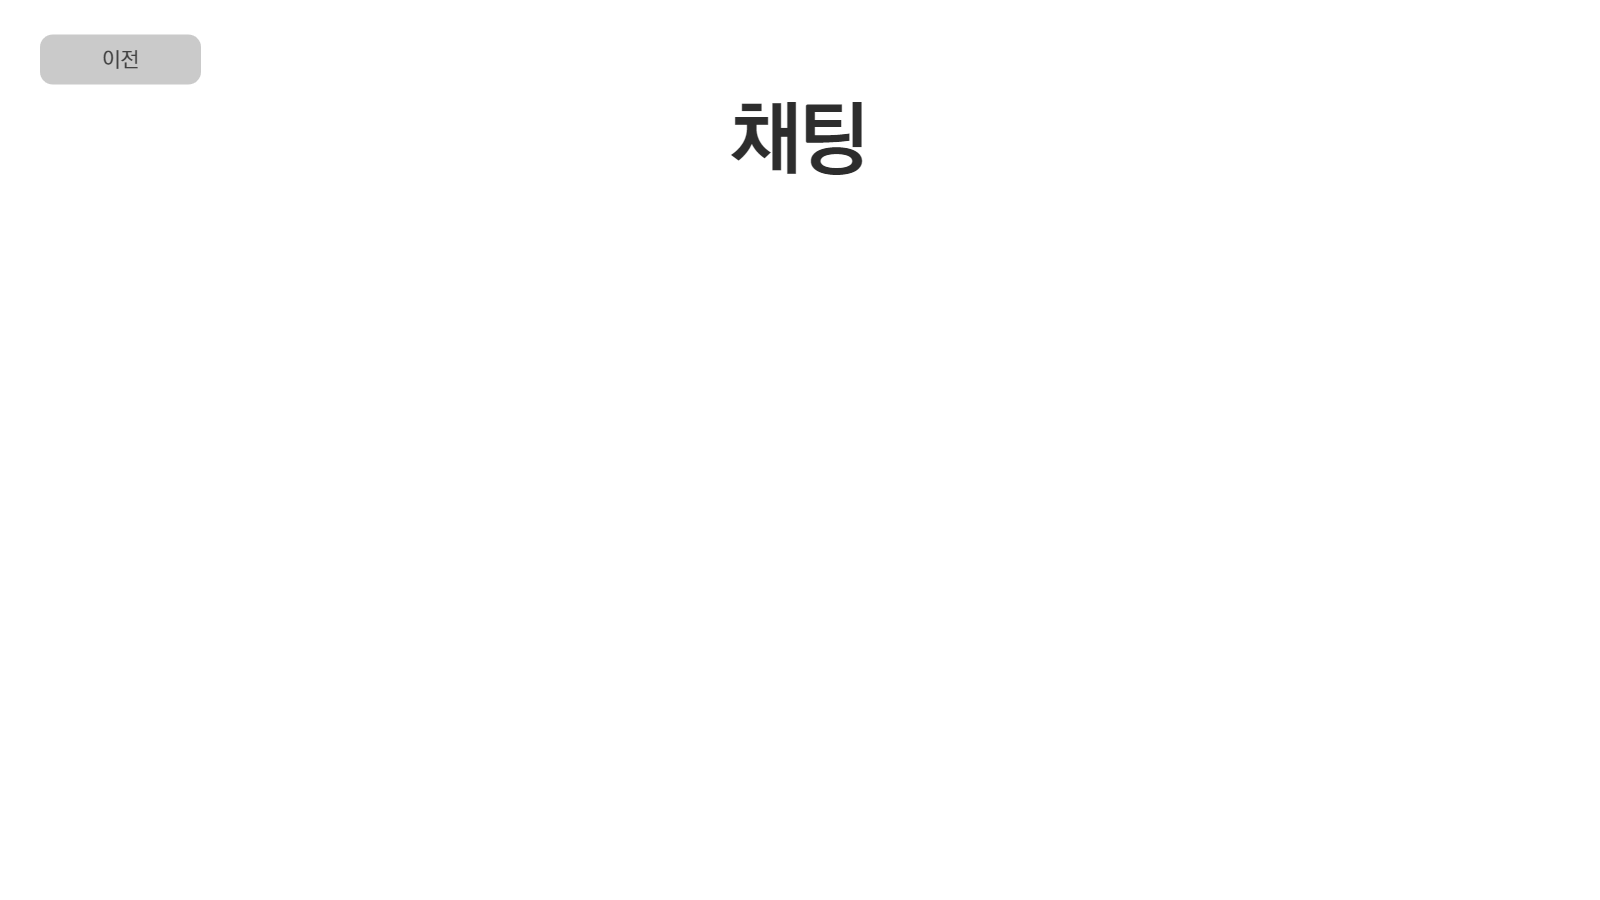
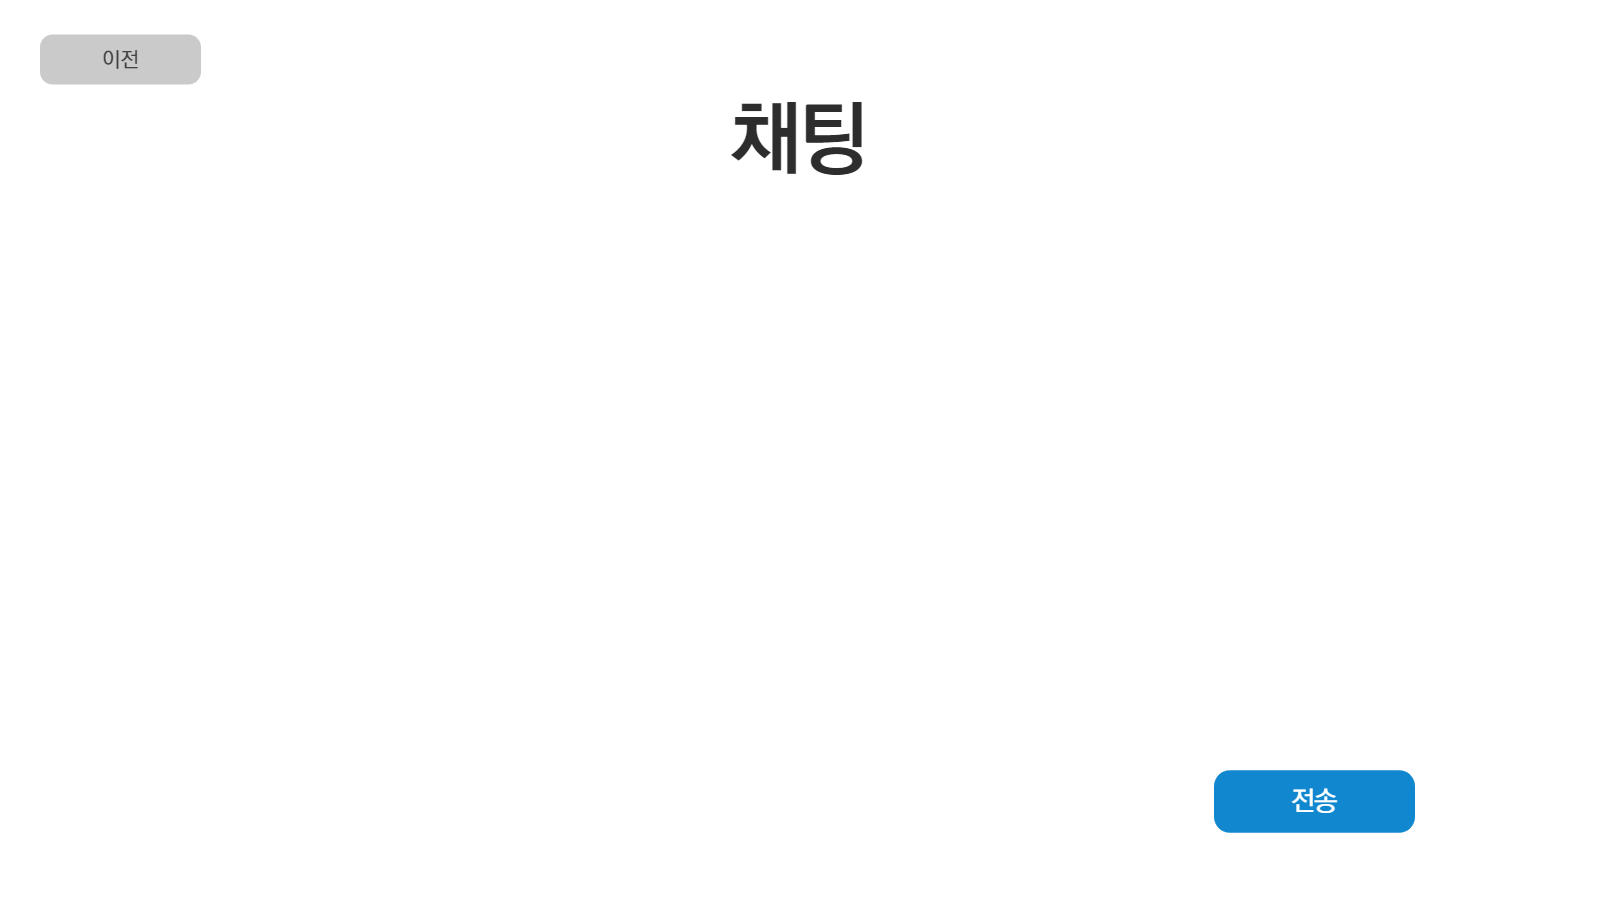
채팅 수정

Changed region(s): [[0.75, 0.84, 0.9062, 0.9333]]

diff --git a/Villim/src/view/Chatting_Controller.java b/Villim/src/view/Chatting_Controller.java
@@ -1,6 +1,11 @@
 package view;
 
+import javafx.fxml.FXML;
 import javafx.fxml.Initializable;
+import javafx.scene.control.Button;
+import javafx.scene.control.ListView;
+import javafx.scene.control.TextField;
+import util.MethodUtil;
 import util.Singleton;
 
 import java.net.URL;
@@ -11,6 +16,26 @@ public class Chatting_Controller implements Initializable {
 	@Override
 	public void initialize(URL location, ResourceBundle resources) {
 
+	}
+
+	MethodUtil methodUtil = new MethodUtil();
+	
+	// 채팅
+	@FXML
+	private TextField chattingContent;
+	@FXML
+	private ListView<String> chattingListView;
+	
+	public void send() {
+		
+	}
+	
+	// 이전 화면으로 가는 코드
+	@FXML
+	private Button backButton;
+
+	public void back() {
+		methodUtil.backScene(backButton);
 	}
 
 }

diff --git a/Villim/src/application/Main.java b/Villim/src/application/Main.java
@@ -21,7 +21,7 @@ public class Main extends Application {
 		try {
 
 			FXMLLoader loader = new FXMLLoader();
-			loader.setLocation(getClass().getResource("/view/Start_Layout.fxml"));
+			loader.setLocation(getClass().getResource("/view/Home_Layout.fxml"));
 			AnchorPane mainLayout = (AnchorPane) loader.load();
 			Scene scene = new Scene(mainLayout);
 			scene.getStylesheets().add(getClass().getResource("application.css").toExternalForm());
